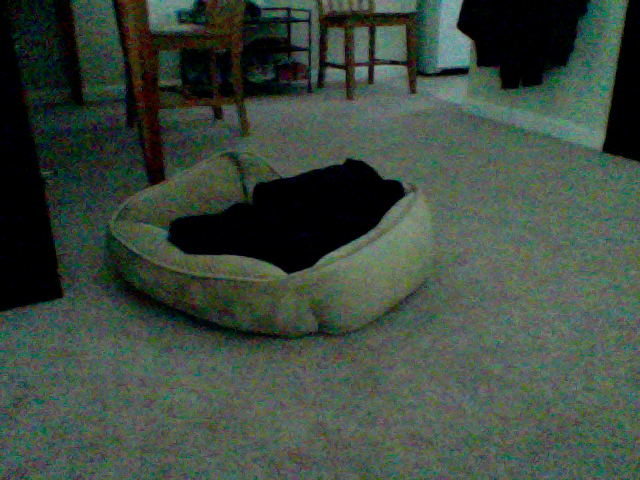
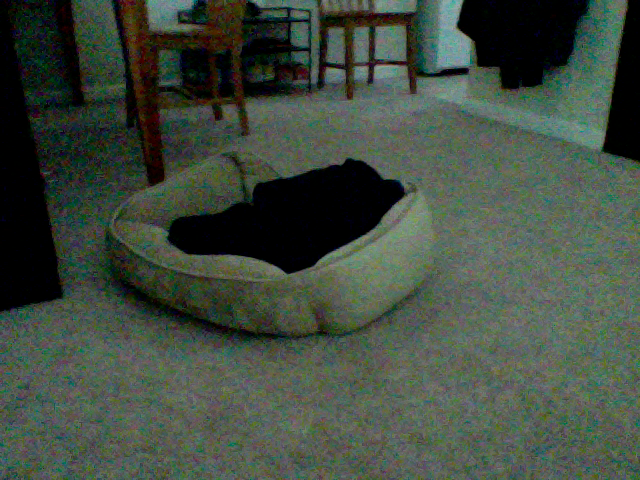
update at Month05Day09Time08:34

diff --git a/index.html b/index.html
@@ -39,7 +39,7 @@
       <!-- Example row of columns -->
       <div class="row">
         <div class="col-md-4">
-	<p>This picture was updated at Month05Day09Time08:33</p>
+	<p>This picture was updated at Month05Day09Time08:34</p>
 		<img src="3_pic.png" />
         </div>
       </div>
